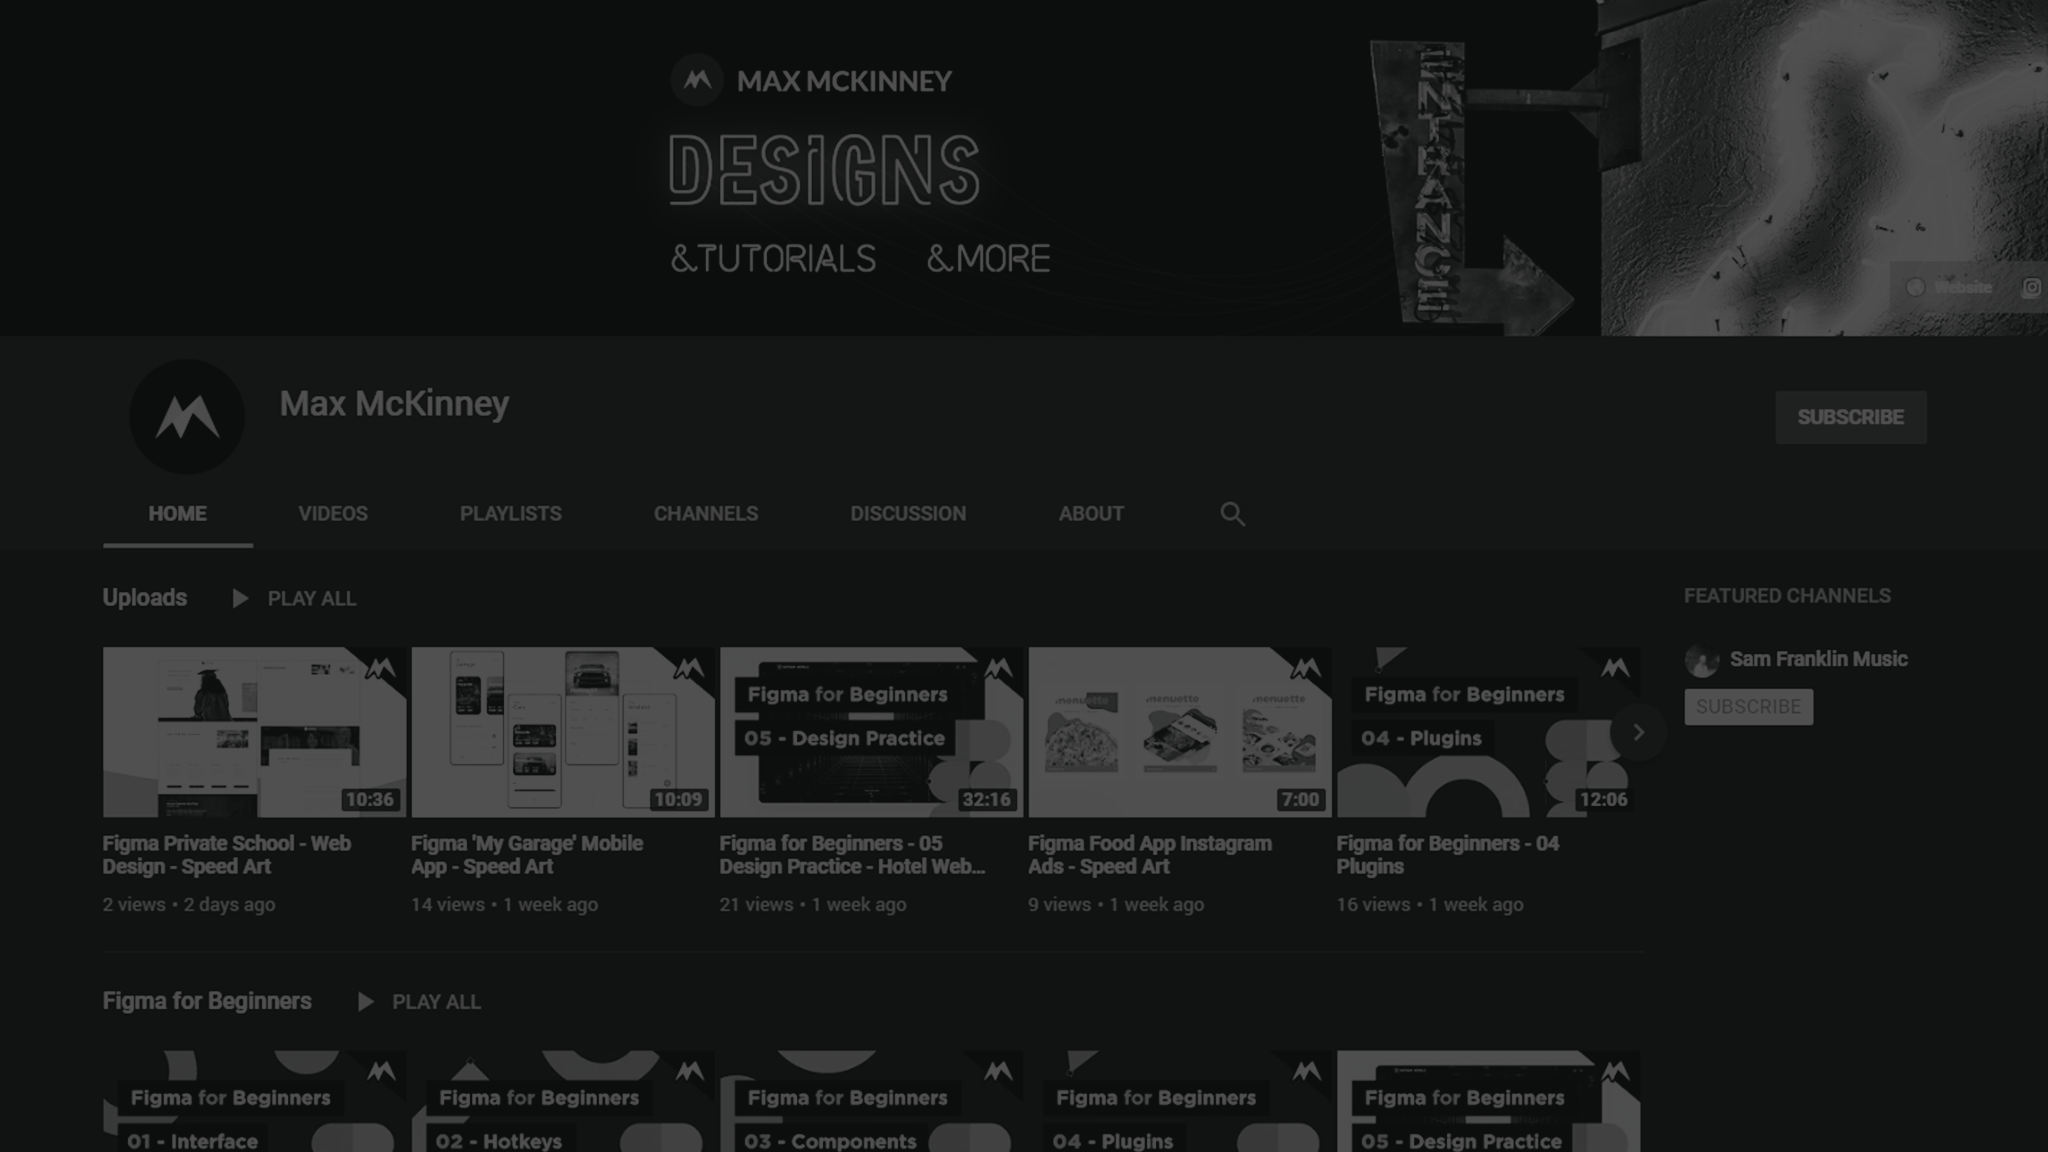
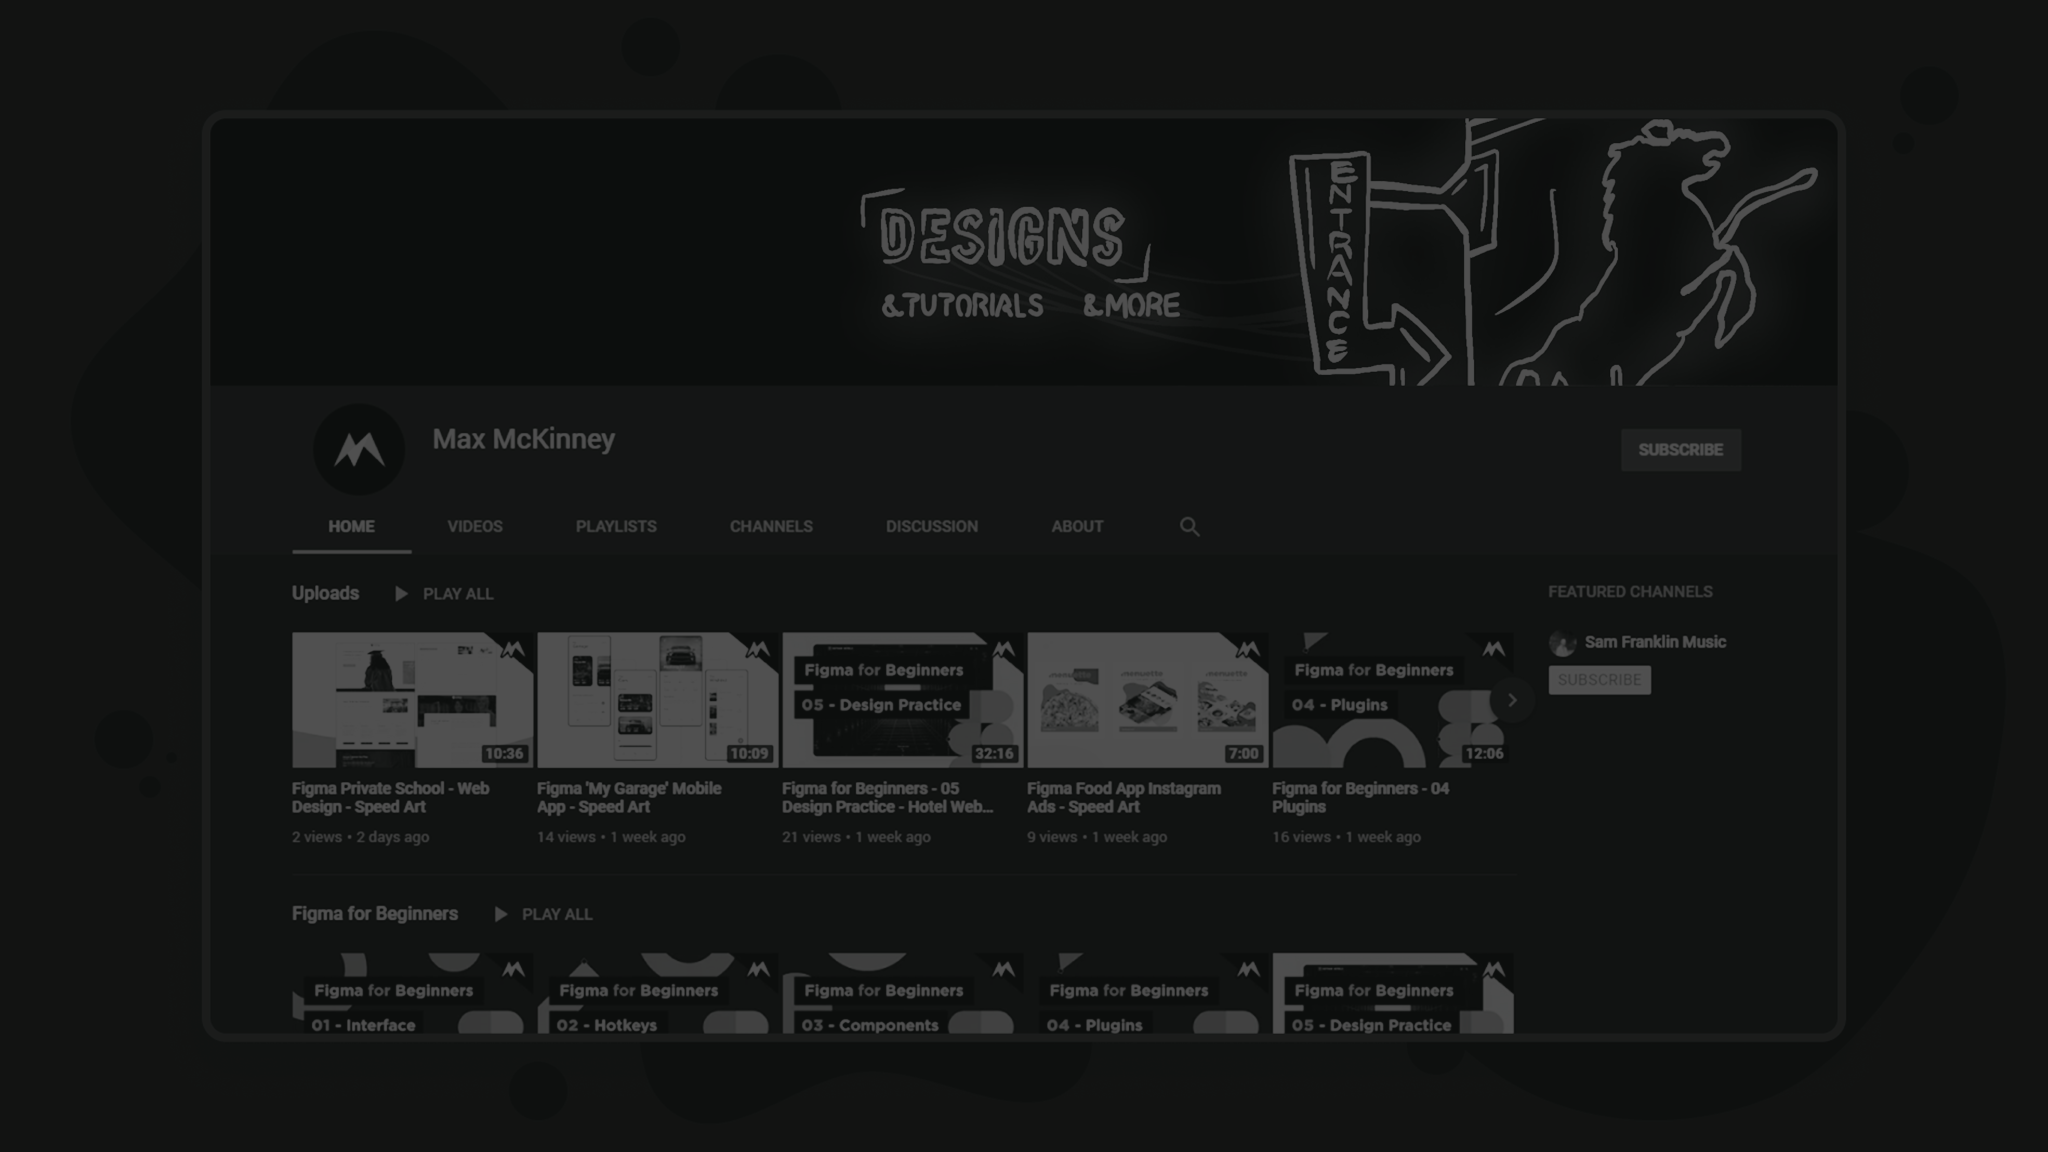
Added two new thumbnail and header images for some projects

diff --git a/src/components/DetailedProjectCard.js b/src/components/DetailedProjectCard.js
@@ -11,7 +11,7 @@ const ProjectCard = (props) => {
     <ProjectCardContainer data-filter={props.data.frontmatter.categories}>
 
         <PreviewContainerMobile>
-            <PreviewImage fluid={props.data.frontmatter.image.childImageSharp.fluid} alt="Project Image"/>
+            <PreviewImage fluid={props.data.frontmatter.thumb.childImageSharp.fluid} alt="Project Image"/>
         </PreviewContainerMobile>
 
         <ProjectCardContent>
@@ -27,7 +27,7 @@ const ProjectCard = (props) => {
         </ProjectCardContent>
 
         <PreviewContainer>
-            <Monitor imageSource={props.data.frontmatter.image.childImageSharp.fluid}/>
+            <Monitor imageSource={props.data.frontmatter.thumb.childImageSharp.fluid}/>
         </PreviewContainer>
 
     </ProjectCardContainer>

diff --git a/src/pages/index.js b/src/pages/index.js
@@ -130,6 +130,13 @@ query ProjectQuery {
 				  }
 				}
               }
+              thumb {
+				childImageSharp {
+				  fluid(maxWidth: 900) {
+					...GatsbyImageSharpFluid
+				  }
+				}
+              }
               categories
 			}
 		  }
